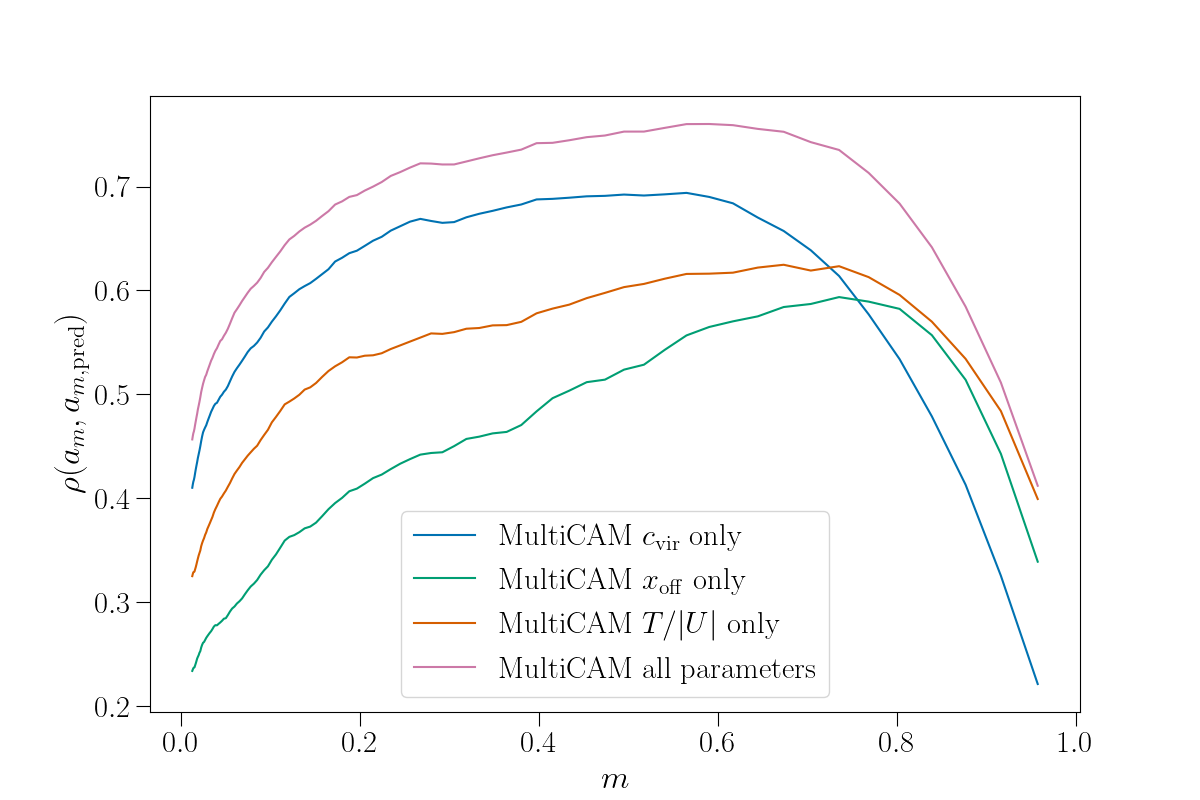
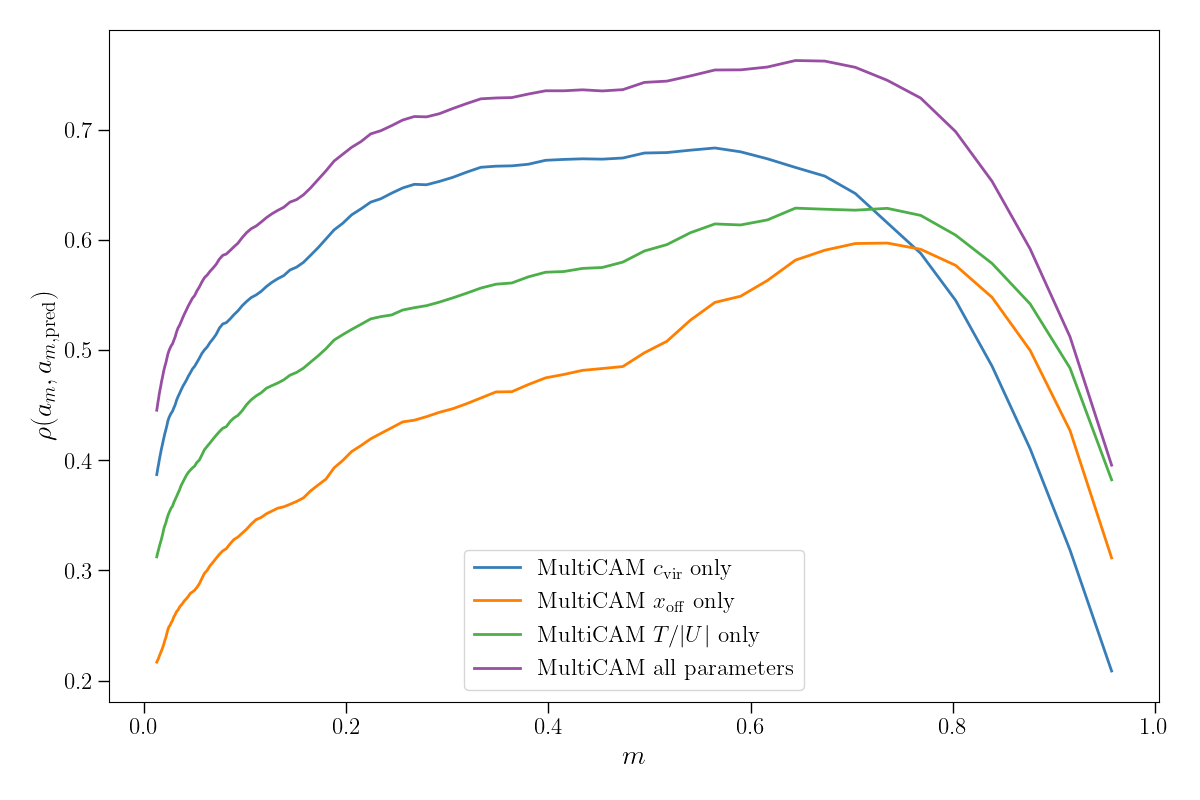
update figures using rc_params need to separate data/plotting

diff --git a/bin/figures.py b/bin/figures.py
@@ -231,14 +231,23 @@ def make_triangle_plots():
     make_triangle("optcam", params, joint_models, datasets, sample_fn, figfile)
 
 
-def make_am_pred_plots():
+def make_mah_pred_plots():
+    set_rc(fontsize=28, lgsize=18, figsize=(9, 6))
     mahdir = root.joinpath("data", "processed", "bolshoi_m12")
     mah_data = get_mah(mahdir, cutoff_missing=0.05, cutoff_particle=0.05)
 
     cat = mah_data["cat"]
+    ma = mah_data["ma"]
     am = mah_data["am"]
-    mass_bins = mah_data["mass_bins"]
-    mass_bins = mass_bins[:-1]  # remove last bin to avoid spearman error.
+    mass_bins = mah_data["mass_bins"][:-1]  # remove last bin to avoid spearman error.
+    scales = mah_data["scales"][:-1]  # same for scales.
+    n_mbins = len(mass_bins)
+    n_scales = len(scales)
+
+    # prepare catalog with all m_a
+    ma_names = [f"ma_{ii}" for ii in range(len(scales))]
+    for ii in range(len(scales)):
+        cat.add_column(ma[:, ii], name=ma_names[ii])
 
     # prepare catalog with all a(m)
     am_names = [f"am_{ii}" for ii in range(len(mass_bins))]
@@ -247,12 +256,12 @@ def make_am_pred_plots():
 
     # prepare datasets
     info = {
-        "cvir_only": {"x": ("cvir",), "y": am_names},
-        "x0_only": {"x": ("x0",), "y": am_names},
-        "tu_only": {"x": ("t/|u|",), "y": am_names},
+        "cvir_only": {"x": ("cvir",), "y": am_names + ma_names},
+        "x0_only": {"x": ("x0",), "y": am_names + ma_names},
+        "tu_only": {"x": ("t/|u|",), "y": am_names + ma_names},
         "all": {
             "x": ("cvir", "cvir_klypin", "t/|u|", "x0", "spin_bullock", "c_to_a", "b_to_a"),
-            "y": am_names,
+            "y": am_names + ma_names,
         },
     }
     datasets, _, _ = prepare_datasets(cat, info)
@@ -262,54 +271,54 @@ def make_am_pred_plots():
         "linear_cvir": {
             "xy": datasets["cvir_only"]["train"],
             "n_features": 1,
-            "n_targets": 99,
+            "n_targets": n_mbins + n_scales,
             "model": "linear",
             "kwargs": {"to_marginal_normal": True, "use_multicam": True},
         },
         "linear_x0": {
             "xy": datasets["x0_only"]["train"],
             "n_features": 1,
-            "n_targets": 99,
+            "n_targets": n_mbins + n_scales,
             "model": "linear",
             "kwargs": {"to_marginal_normal": True, "use_multicam": True},
         },
         "linear_tu": {
             "xy": datasets["tu_only"]["train"],
             "n_features": 1,
-            "n_targets": 99,
+            "n_targets": n_mbins + n_scales,
             "model": "linear",
             "kwargs": {"to_marginal_normal": True, "use_multicam": True},
         },
         "linear_all": {
             "xy": datasets["all"]["train"],
             "n_features": 7,
-            "n_targets": 99,
+            "n_targets": n_mbins + n_scales,
             "model": "linear",
             "kwargs": {"to_marginal_normal": True, "use_multicam": True},
         },
     }
     models = training_suite(data)
 
-    corrs = {}
-    sigmas_x = {}
+    corrs_am = {}
+    corrs_ma = {}
     dataset_names = ["cvir_only", "x0_only", "tu_only", "all"]
     mdl_names = ["linear_cvir", "linear_x0", "linear_tu", "linear_all"]
     for dataset_names, mdl_name in zip(dataset_names, mdl_names):
         model = models[mdl_name]
         x_test, y_test = datasets[dataset_names]["test"]
         y_pred = model.predict(x_test)
-        corrs[mdl_name] = np.array(
-            [spearmanr(y_pred[:, jj], y_test[:, jj]).correlation for jj in range(y_pred.shape[1])]
+        corrs_am[mdl_name] = np.array(
+            [spearmanr(y_pred[:, jj], y_test[:, jj]).correlation for jj in range(n_mbins)]
         )
-        sigmas_x[mdl_name] = np.array(
+        corrs_ma[mdl_name] = np.array(
             [
-                np.std(y_pred[:, jj] - y_test[:, jj]) / (np.sqrt(2) * np.std(y_test[:, jj]))
-                for jj in range(y_pred.shape[1])
+                spearmanr(y_pred[:, jj + n_mbins], y_test[:, jj + n_mbins]).correlation
+                for jj in range(n_scales)
             ]
         )
 
     # (1) Correlation a(m) vs a_pred(m) figure
-    fig, ax = plt.subplots(1, 1, figsize=(12, 8))
+    fig, ax = plt.subplots(1, 1)
     nice_names = [
         r"\rm MultiCAM $c_{\rm vir}$ only",
         r"\rm MultiCAM $x_{\rm off}$ only",
@@ -317,47 +326,28 @@ def make_am_pred_plots():
         r"\rm MultiCAM all parameters",
     ]
     for nice_name, mdl_name in zip(nice_names, mdl_names):
-        ax.plot(mass_bins, corrs[mdl_name], label=nice_name)
+        ax.plot(mass_bins, corrs_am[mdl_name], label=nice_name)
     ax.set_xlabel("$m$")
-    ax.set_ylabel("$\\rho(a_{m}, a_{m, \\rm{pred}})$")
+    ax.set_ylabel(r"$\rho(a_{m}, a_{m, \rm{pred}})$")
+    ax.set_yticks([0.2, 0.4, 0.6, 0.8])
+    ax.set_yticklabels(f"${x:.1f}$" for x in ax.get_yticks())
     ax.legend()
-
-    # (1) Correlation a(m) vs a_pred(m) figure
-    fig, ax = plt.subplots(1, 1, figsize=(12, 8))
-    nice_names = [
-        r"\rm MultiCAM $c_{\rm vir}$ only",
-        r"\rm MultiCAM $x_{\rm off}$ only",
-        r"\rm MultiCAM $T / \vert U \vert$ only",
-        r"\rm MultiCAM all parameters",
-    ]
-    for nice_name, mdl_name in zip(nice_names, mdl_names):
-        ax.plot(mass_bins, corrs[mdl_name], label=nice_name)
-    ax.set_xlabel("$m$")
-    ax.set_ylabel("$\\rho(a_{m}, a_{m, \\rm{pred}})$")
-    ax.legend()
-    figfile = figsdir.joinpath("corr_pred_am.png")
+    figfile = figsdir.joinpath("corr_pred_mah_am.png")
     fig.savefig(figfile)
 
-    # (2) Sigma scatter a(m) vs a_pred(m) figure
-    fig, ax = plt.subplots(1, 1, figsize=(12, 8))
-    nice_names = [
-        r"\rm MultiCAM $c_{\rm vir}$ only",
-        r"\rm MultiCAM $x_{\rm off}$ only",
-        r"\rm MultiCAM $\eta$ only",
-        r"\rm MultiCAM all parameters",
-    ]
+    # (2) Correlation m(a) vs m_pred(a) figure
+    fig, ax = plt.subplots(1, 1)
     for nice_name, mdl_name in zip(nice_names, mdl_names):
-        ax.plot(mass_bins, sigmas_x[mdl_name], label=nice_name)
-    ax.set_xlabel("$m$")
-    ax.set_ylabel(
-        r"$\frac{\sigma(a_{m, \rm pred} - a_{m, \rm true})}{ \sigma(a_{m, \rm true}) \sqrt{2}}$",
-    )
+        ax.plot(scales, corrs_ma[mdl_name], label=nice_name)
+    ax.set_xlabel("$a$")
+    ax.set_ylabel(r"$\rho(m_{a}, m_{a, \rm{pred}})$")
     ax.legend()
-    figfile = figsdir.joinpath("scatter_pred_am.png")
+    figfile = figsdir.joinpath("corr_pred_mah_ma.png")
     fig.savefig(figfile)
 
 
 def make_inv_pred_plots():
+    set_rc()
     mahdir = root.joinpath("data", "processed", "bolshoi_m12")
     mah_data = get_mah(mahdir, cutoff_missing=0.05, cutoff_particle=0.05)
 
@@ -489,6 +479,7 @@ def make_inv_pred_plots():
 
 
 def make_pred_plots():
+    set_rc()
     params = ("cvir", "cvir_klypin", "t/|u|", "x0", "b_to_a", "c_to_a", "spin_bullock")
     mahdir = root.joinpath("data", "processed", "bolshoi_m12")
     mah_data = get_mah(mahdir, cutoff_missing=0.05, cutoff_particle=0.05)
@@ -746,10 +737,10 @@ def make_covariance_am_plot():
     fig.savefig(figfile)
 
 
-def make_figures():
-    make_correlation_mah_plots()
+def main():
+    # make_correlation_mah_plots()
     # make_triangle_plots()
-    # make_am_pred_plots()
+    make_mah_pred_plots()
     # make_inv_pred_plots()
     # make_pred_plots()
     # make_covariance_am_plot()
@@ -757,4 +748,4 @@ def make_figures():
 
 
 if __name__ == "__main__":
-    make_figures()
+    main()
